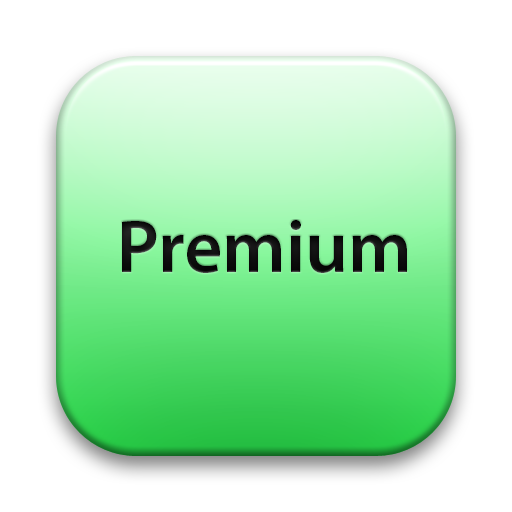
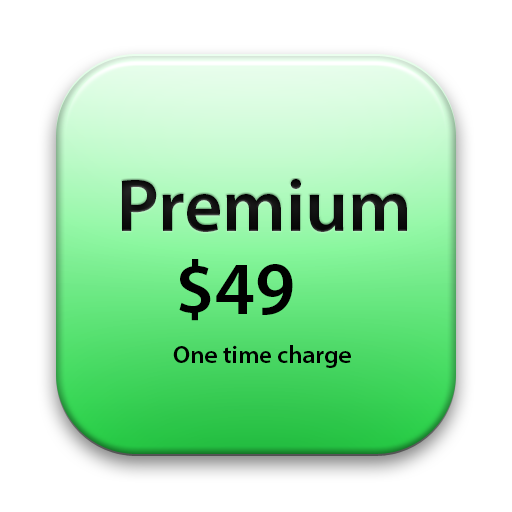
Re-work workding of premium membership and replace landing page image for Premium.

diff --git a/spec/features/view_wiki_show_spec.rb b/spec/features/view_wiki_show_spec.rb
@@ -30,7 +30,7 @@ feature "viewing the wiki page" do
     expect(page).to have_content(wiki.title)
     expect(page).to have_content(wiki.body)
 
-    expect(page).not_to have_content("Wiki Collaborators")
+    expect(page).not_to have_content("Add Collaborators to")
   end
 
 
@@ -42,7 +42,7 @@ feature "viewing the wiki page" do
 
     expect(page).to have_content(wiki.title)
     expect(page).to have_content(wiki.body)
-    expect(page).to have_content("Wiki Collaborators")
+    expect(page).to have_content("Add Collaborators to")
 
     User.potential_collaborators(owner).each do |collab|
       expect(page).to have_xpath("//table/tbody/tr/td", text: collab.name)
@@ -70,7 +70,7 @@ feature "viewing the wiki page" do
 
     expect(page).to have_content(wiki.title)
     expect(page).to have_content(wiki.body)
-    expect(page).to have_content("Wiki Collaborators")
+    expect(page).to have_content("Add Collaborators to")
 
     User.potential_collaborators(owner).each do |collab|
       expect(page).to have_xpath("//table/tbody/tr/td", text: collab.name)
@@ -92,7 +92,7 @@ feature "viewing the wiki page" do
     expect(page).to have_content(wiki.title)
     expect(page).to have_content(wiki.body)
 
-    expect(page).not_to have_content("Wiki Collaborators")
+    expect(page).not_to have_content("Add Collaborators to")
   end
 
 
@@ -101,14 +101,14 @@ feature "viewing the wiki page" do
     click_link 'Wikis'
     click_link wiki.title
 
-    expect(page).to have_content("Wiki Collaborators")
+    expect(page).to have_content("Add Collaborators to")
     expect(page).not_to have_xpath("//table/tbody/tr[@id='user-#{user.id}']/td/input[@checked='checked']")
     expect(page).not_to have_content("Wiki updated.")
 
     within("#user-#{user.id}") do
       check("wiki[user_ids][]")
     end
-    click_button "Save changes"
+    click_button "Share Wiki"
 
     expect(page).to have_content("Wiki updated.")
     expect(page).to have_xpath("//table/tbody/tr[@id='user-#{user.id}']/td/input[@checked='checked']")

diff --git a/spec/controllers/subscriptions_controller_spec.rb b/spec/controllers/subscriptions_controller_spec.rb
@@ -1,12 +1,12 @@
 require 'spec_helper'
 
-describe SubscriptionsController do
+# describe SubscriptionsController do
 
-  describe "GET 'new'" do
-    it "returns http success" do
-      get 'new'
-      response.should be_success
-    end
-  end
+#   describe "GET 'new'" do
+#     it "returns http success" do
+#       get 'new'
+#       response.should be_success
+#     end
+#   end
 
-end
+# end
